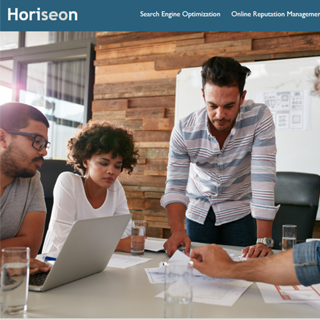
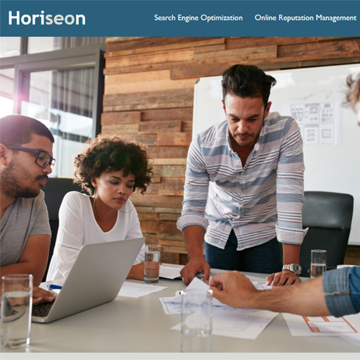
Responsive Design Ready

diff --git a/index.html b/index.html
@@ -14,9 +14,9 @@
         <h1>KMC</h1>
         <nav>
             <ul>
-                <li><button onclick="scrollfunc(0,10)" href="">About Me</button></li>
-                <li><button onclick="scrollfunc(0,690)" href="">Projects</button></li>
-                <li><button onclick="scrollfunc(0,1000); setTimeout(white_footer,500)" href="">Contact</button></li>
+                <li><button onclick="scrollfunc(1)" href="">About Me</button></li>
+                <li><button onclick="scrollfunc(2)" href="">Projects</button></li>
+                <li><button onclick="scrollfunc(3); setTimeout(white_footer,500)" href="">Contact</button></li>
             </ul>
         </nav>
     </header>
@@ -48,26 +48,6 @@
 <!-- PROJECT CARD 1-->
 
                 <div class="Project-card">
-                    <h3 class="Proyect-Title">Horiseon Project</h3>
-                    <div class="image-container">                        
-                        <a href="https://h0pe467.github.io/HoriseonWebOptimized/" target="_blank">
-                            <img src="./assets/images/horiseon_project.png" alt="PLain Image">
-                        </a>
-                    </div>
-                    <p>Languages</p>
-                    <ul>
-                        <li class="icon-html-five"><span> Html</span></li>
-                        <li class="icon-css3"><span> Css</span></li>
-                    </ul>
-                    <p>Link</p>
-                    <ul>
-                        <li class="icon-github"><a href="https://github.com/H0PE467/HoriseonWebOptimized" target="_blank"> Github.com/HoriseonWebOptimized </a></li>
-                    </ul>
-                </div>
-
-<!-- PROJECT CARD 2-->
-
-                <div class="Project-card">
                     <h3 class="Proyect-Title">Css Cheatsheet Project</h3>
                     <div class="image-container">
                         <a href="https://h0pe467.github.io/CodingMiniProject/" target="_blank">
@@ -82,6 +62,26 @@
                     <p>Link</p>
                     <ul>
                         <li class="icon-github"><a href="https://github.com/H0PE467/CodingMiniProject" target="_blank"> Github.com/CodingMiniProject </a></li>
+                    </ul>
+                </div>
+
+
+<!-- PROJECT CARD 2-->
+                <div class="Project-card" id="FirstProject">
+                    <h3 class="Proyect-Title">Horiseon Project</h3>
+                    <div class="image-container">                        
+                        <a href="https://h0pe467.github.io/HoriseonWebOptimized/" target="_blank">
+                            <img src="./assets/images/horiseon_project.png" alt="PLain Image">
+                        </a>
+                    </div>
+                    <p>Languages</p>
+                    <ul>
+                        <li class="icon-html-five"><span> Html</span></li>
+                        <li class="icon-css3"><span> Css</span></li>
+                    </ul>
+                    <p>Link</p>
+                    <ul>
+                        <li class="icon-github"><a href="https://github.com/H0PE467/HoriseonWebOptimized" target="_blank"> Github.com/HoriseonWebOptimized </a></li>
                     </ul>
                 </div>
 

diff --git a/assets/css/style.css b/assets/css/style.css
@@ -191,6 +191,16 @@ button:hover{
     font-size: 1.5em; 
 }
 
+#FirstProject img{
+    transform: scale(1);
+}
+
+#FirstProject .image-container::before{
+    width: 360px;
+    height: 360px;
+}
+
+
 .Project-card p{
     font-weight: bold;
 }
@@ -230,8 +240,9 @@ footer h3{
 
 footer ul{
     display: flex;
+    flex-wrap: wrap;
     list-style: none;
-    justify-content: center;
+    justify-content: space-evenly;
     position: relative;
     left: -30px;
     padding-bottom: 25px;
@@ -239,8 +250,8 @@ footer ul{
 }
 
 footer ul li{
-    margin: 0px 150px;
     color: var(--light);
+    padding-top: 5px;
 }
 
 footer ul li a{
@@ -248,4 +259,54 @@ footer ul li a{
 }
 
 
+@media screen and (max-width: 992px){
+    nav ul li{
+        font-size: 1.5em;
+    }
 
+    nav ul li button{
+        color: var(--notsolight);
+        padding: 12px 24px;
+    }
+
+    .Info h2{
+        font-size: 2.5em;
+    }
+
+    .Info ul{
+        font-size: 1.5em;
+
+    }
+    #Photo1{
+        transform: scale(0.60);
+        right: -50px;
+    }
+
+    #Photo2{
+        display: none;
+    }
+
+
+
+
+}
+
+@media screen and (max-width: 768px){
+    nav{
+        display: none;
+    }
+
+    .Info h2{
+        font-size: 2em;
+    }
+
+    .Info ul{
+        font-size: 1em;
+
+    }
+
+    #Photo1{
+        transform: scale(0.50);
+        right: -120px;
+    }
+}

diff --git a/script.js b/script.js
@@ -1,7 +1,32 @@
 
-function scrollfunc(xcord,ycord){
-    window.scrollTo(xcord,ycord);
-    return null;
+function checksize(){
+    var x = document.body.clientWidth;
+    return x;
+}
+
+function scrollfunc(place){
+
+    if(place==1 && checksize() < 992){
+        window.scrollTo(0, 10);
+    }
+    else if(place==1 && 992 < checksize()){
+        window.scrollTo(0, 10);
+    }
+
+    else if(place==2 && checksize() < 992){
+        window.scrollTo(0, 690);
+    }
+    else if(place==2 && 992 < checksize()){
+        window.scrollTo(0, 690);
+    }
+
+    else if(place==3 && checksize() < 992){
+        window.scrollTo(0, 1700);
+    }
+    else if(place==3 && 992 < checksize()){
+        window.scrollTo(0, 1000);
+    }
+
 }
 
 function dark_footer(){

diff --git a/README.md b/README.md
@@ -9,10 +9,11 @@ Progress 0%
 * [x] About Me
 * [x] Projects
 * [x] Contact Information
-* [ ] Working Links
-* [ ] Adding Real Images
+* [x] Working Links
+* [x] Adding Real Images
 * [x] Typography
 * [x] Animations
+* [x] Responsive
 ## Mockup
 ![FirstMockup](/assets/images/Mockup.png)
 *Subject to change*
